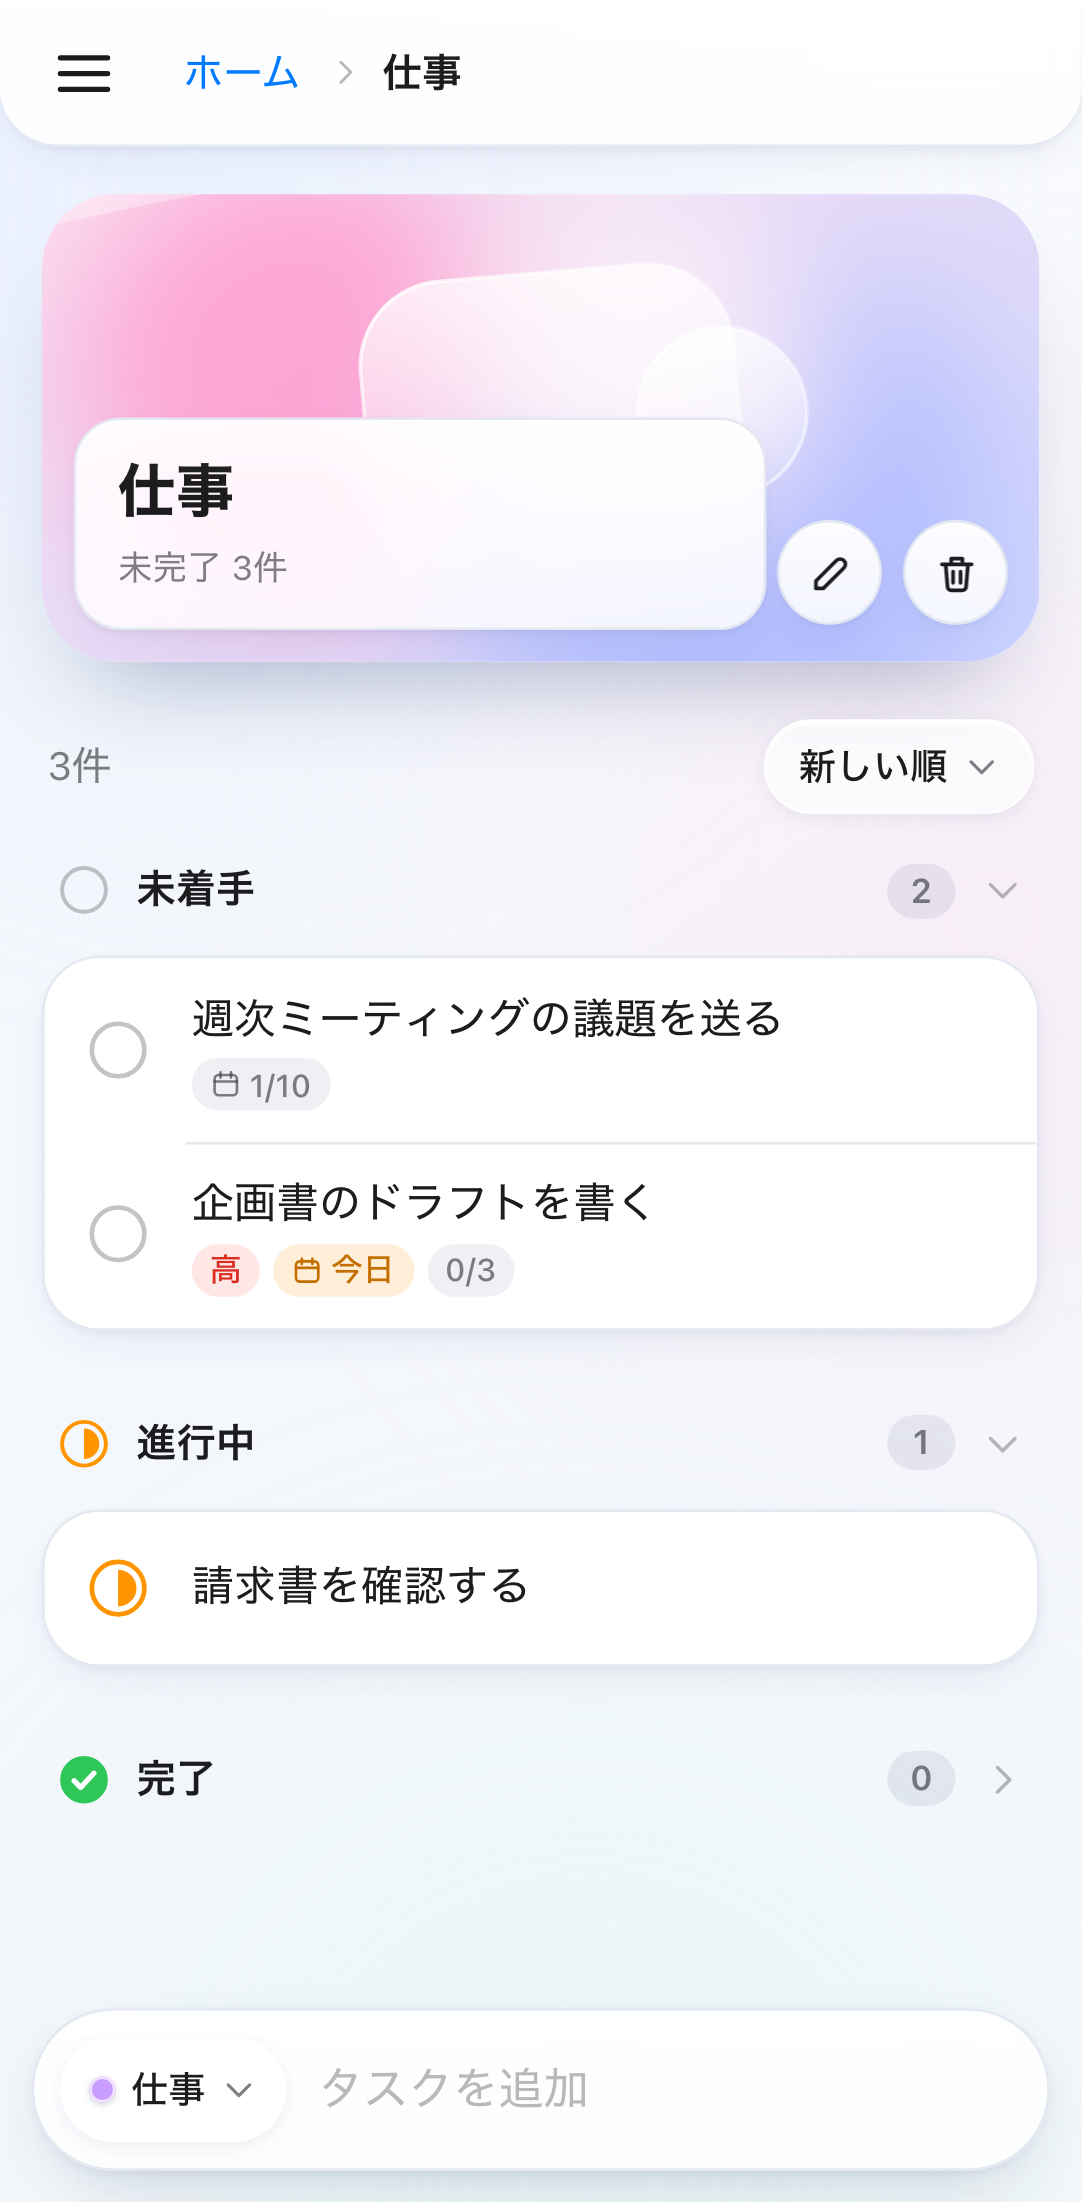
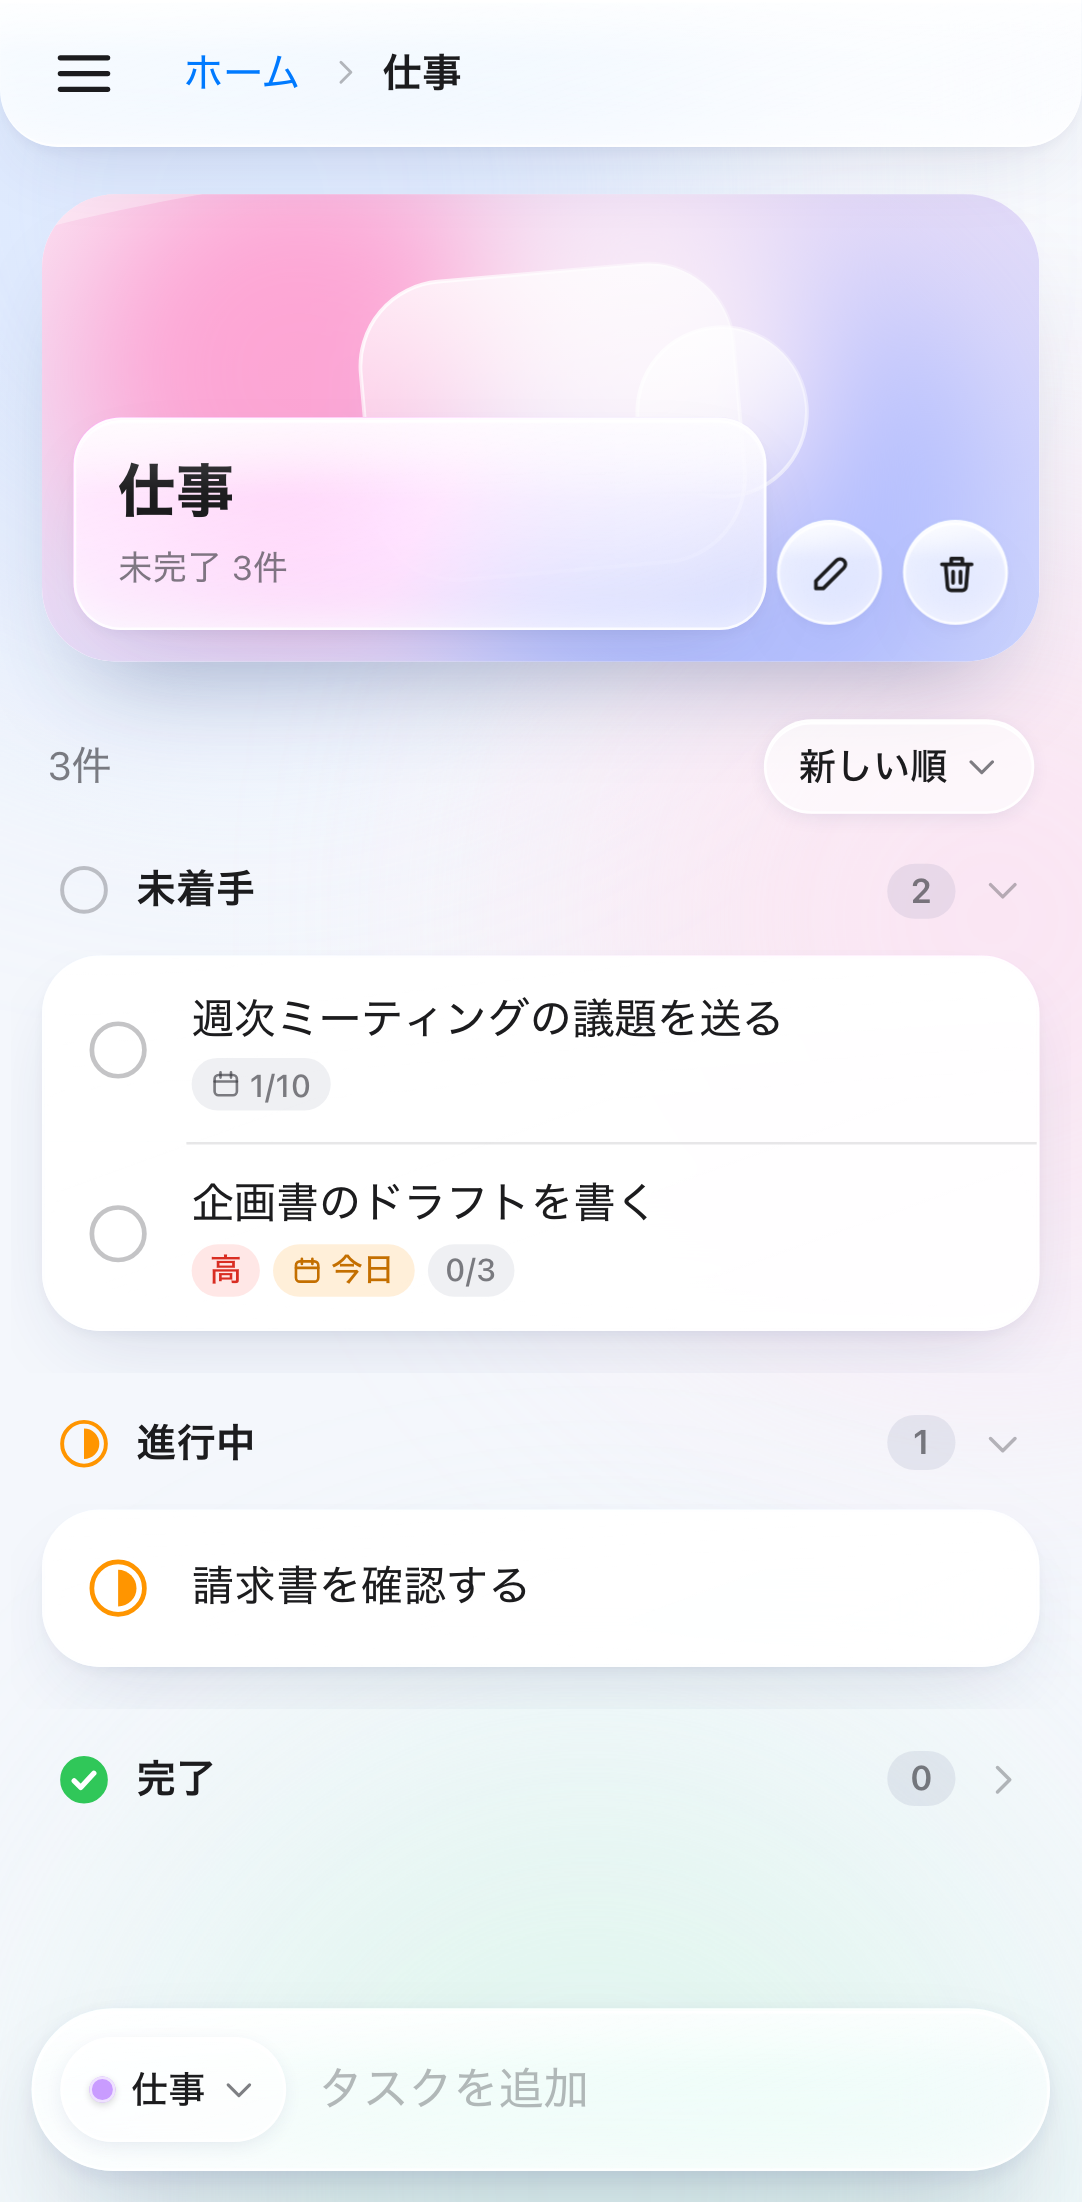
Bring back the stronger Liquid Glass styling
Restores the translucent surfaces, stronger blur, specular sheen and
background color orbs; keeps the Gemini button styles. Refreshes the
README screenshots.

Changed region(s): [[0.2135, 0.2162, 0.305, 0.247]]

diff --git a/src/styles.css b/src/styles.css
@@ -15,12 +15,11 @@
   --red: #ff3b30;
   --purple: #8e5cf7;
 
-  /* Subtle glass: mostly solid white surfaces with a light frosted edge */
-  --glass-fill: linear-gradient(180deg, rgba(255, 255, 255, 0.94) 0%, rgba(255, 255, 255, 0.86) 100%);
-  --glass-border: rgba(225, 230, 240, 0.9);
-  --glass-shadow: 0 6px 20px -10px rgba(36, 52, 110, 0.16), 0 1px 3px rgba(36, 52, 110, 0.05);
-  --glass-inner: inset 0 1px 0 rgba(255, 255, 255, 0.9);
-  --blur: blur(12px) saturate(140%);
+  --glass-fill: linear-gradient(160deg, rgba(255, 255, 255, 0.82) 0%, rgba(255, 255, 255, 0.5) 100%);
+  --glass-border: rgba(255, 255, 255, 0.85);
+  --glass-shadow: 0 12px 32px -12px rgba(36, 52, 110, 0.18), 0 2px 6px -1px rgba(36, 52, 110, 0.06);
+  --glass-inner: inset 0 1px 0.5px rgba(255, 255, 255, 1), inset 0 -10px 18px -12px rgba(255, 255, 255, 0.9);
+  --blur: blur(24px) saturate(190%);
 
   --r-xl: 28px;
   --r-l: 22px;
@@ -120,8 +119,8 @@ img {
 .bg-orbs i {
   position: absolute;
   border-radius: 50%;
-  filter: blur(70px);
-  opacity: 0.28;
+  filter: blur(60px);
+  opacity: 0.55;
   animation: drift 26s ease-in-out infinite alternate;
 }
 .bg-orbs i:nth-child(1) {
@@ -174,7 +173,8 @@ img {
   inset: 0;
   border-radius: inherit;
   pointer-events: none;
-  background: linear-gradient(180deg, rgba(255, 255, 255, 0.35) 0%, rgba(255, 255, 255, 0) 30%);
+  background: linear-gradient(180deg, rgba(255, 255, 255, 0.65) 0%, rgba(255, 255, 255, 0) 38%),
+    radial-gradient(120% 60% at 10% 0%, rgba(255, 255, 255, 0.55), transparent 55%);
   mix-blend-mode: soft-light;
 }
 
@@ -336,11 +336,11 @@ img {
   gap: 6px;
   padding: 8px 8px 8px 10px;
   border-radius: 999px;
-  box-shadow: 0 10px 28px -12px rgba(36, 52, 110, 0.28), 0 1px 4px rgba(36, 52, 110, 0.06), var(--glass-inner);
+  box-shadow: 0 18px 40px -14px rgba(36, 52, 110, 0.32), 0 2px 8px rgba(36, 52, 110, 0.08), var(--glass-inner);
   transition: box-shadow 0.25s;
 }
 .composer:focus-within {
-  box-shadow: 0 10px 28px -12px rgba(0, 122, 255, 0.3), 0 0 0 3px rgba(0, 122, 255, 0.14), var(--glass-inner);
+  box-shadow: 0 18px 44px -12px rgba(0, 122, 255, 0.35), 0 0 0 4px rgba(0, 122, 255, 0.12), var(--glass-inner);
 }
 .composer-input {
   flex: 1;
@@ -549,7 +549,7 @@ img {
   gap: 8px;
   padding: 12px 16px;
   border-radius: 18px;
-  --glass-fill: linear-gradient(180deg, rgba(255, 255, 255, 0.92), rgba(255, 255, 255, 0.84));
+  --glass-fill: linear-gradient(160deg, rgba(255, 255, 255, 0.7), rgba(255, 255, 255, 0.42));
 }
 .carousel-title {
   font-weight: 700;
@@ -767,7 +767,7 @@ img {
   gap: 4px;
   min-height: 58px;
   padding: 6px 12px 6px 6px;
-  background: #fff;
+  background: rgba(255, 255, 255, 0.92);
   touch-action: pan-y;
   cursor: grab;
   user-select: none;
@@ -896,7 +896,7 @@ img {
   right: 104px;
   padding: 12px 16px;
   border-radius: 18px;
-  --glass-fill: linear-gradient(180deg, rgba(255, 255, 255, 0.92), rgba(255, 255, 255, 0.84));
+  --glass-fill: linear-gradient(160deg, rgba(255, 255, 255, 0.72), rgba(255, 255, 255, 0.42));
 }
 .list-hero-title {
   margin: 0;
@@ -918,7 +918,7 @@ img {
   gap: 8px;
 }
 .list-hero-actions .icon-btn {
-  --glass-fill: linear-gradient(180deg, rgba(255, 255, 255, 0.94), rgba(255, 255, 255, 0.86));
+  --glass-fill: linear-gradient(160deg, rgba(255, 255, 255, 0.78), rgba(255, 255, 255, 0.5));
 }
 
 /* ==========================================================================
@@ -1228,17 +1228,17 @@ img {
 .backdrop {
   position: absolute;
   inset: 0;
-  background: rgba(30, 40, 70, 0.18);
-  -webkit-backdrop-filter: blur(4px);
-  backdrop-filter: blur(4px);
+  background: rgba(220, 228, 245, 0.35);
+  -webkit-backdrop-filter: blur(10px) saturate(140%);
+  backdrop-filter: blur(10px) saturate(140%);
 }
 .panel {
   position: relative;
   display: flex;
   flex-direction: column;
   outline: none;
-  --glass-fill: linear-gradient(180deg, #ffffff 0%, rgba(255, 255, 255, 0.96) 100%);
-  box-shadow: 0 24px 60px -20px rgba(36, 52, 110, 0.35), var(--glass-inner);
+  --glass-fill: linear-gradient(160deg, rgba(255, 255, 255, 0.94) 0%, rgba(255, 255, 255, 0.84) 100%);
+  box-shadow: 0 30px 80px -20px rgba(36, 52, 110, 0.45), var(--glass-inner);
 }
 .dialog {
   width: min(520px, 100%);

diff --git a/README.md b/README.md
@@ -1,6 +1,6 @@
 # Glass Tasks
 
-白基調の控えめな Liquid Glass UI で作った、モバイルファーストのタスク管理 Web アプリです。
+白基調の Liquid Glass UI で作った、モバイルファーストのタスク管理 Web アプリです。
 Cloudflare Workers（API・配信）＋ D1（データベース）＋ Workers AI（サブタスク分解）＋ Gemini（自然文からのタスク追加）で動き、ログインは Google 認証のみです。
 
 | ホーム | スワイプ | タスク詳細 | メニュー | 読み込み中 |
